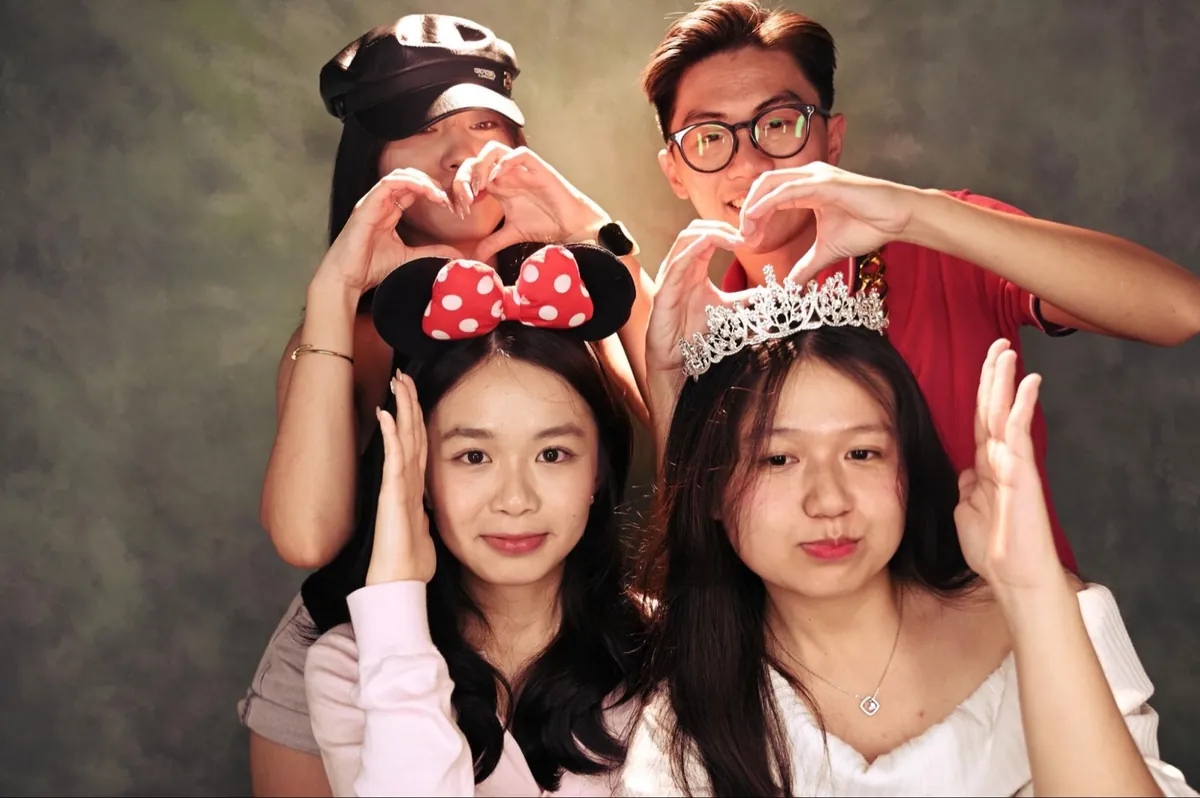
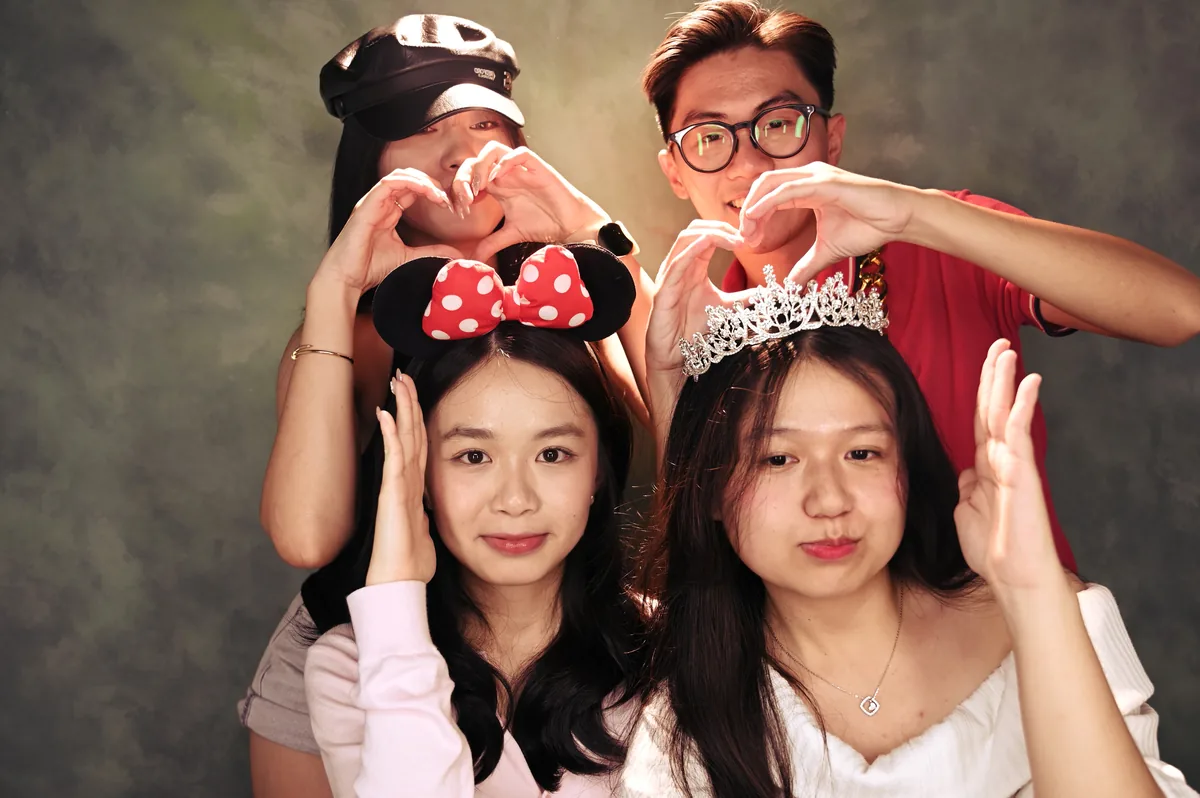
Add every friends' photo and self-portrait stickers from the Drive
The Drive's Self and Friends folders had more photos than the search API
listed. All friends' photos now hang on the clotheslines (crew and night
shots use the full-size originals). Self-portraits are cut out as die-cut
stickers in Cảm ơn, on the Nhớ lắm letter and on the guestbook wall; the
invite's Polaroid print is the studio portrait.

Changed region(s): [[0.0, 0.9925, 0.5858, 1.0], [0.6475, 0.9925, 1.0, 1.0], [0.555, 0.3609, 0.74, 0.4511]]

diff --git a/index.html b/index.html
@@ -75,24 +75,44 @@
         <img class="peg" src="img/peg-2.webp" alt="" width="135" height="300">
         <div class="swing"><figure class="polaroid"><img src="img/crew-minnie.webp" alt="Như í và bạn bè đeo bờm Minnie, vương miện, tạo dáng trái tim" width="1200" height="798" loading="lazy"></figure></div>
       </li>
+      <li class="hang hang--polaroid hang--tall">
+        <img class="peg" src="img/peg-2.webp" alt="" width="135" height="300">
+        <div class="swing"><figure class="polaroid"><img src="img/friends-tiara.webp" alt="Hai bạn ôm nhau trước phông hồng, một bạn đội vương miện" width="800" height="1200" loading="lazy"></figure></div>
+      </li>
       <li class="hang">
         <img class="peg" src="img/peg-2.webp" alt="" width="135" height="300">
         <div class="swing">
           <div class="booth">
-            <img src="img/booth-1.webp" alt="Ba bạn mặc áo cử nhân trước rèm đỏ" width="486" height="600">
-            <img src="img/booth-2.webp" alt="" width="486" height="600">
-            <img src="img/booth-3.webp" alt="" width="486" height="600">
-            <img src="img/booth-4.webp" alt="" width="486" height="600">
+            <img src="img/booth-1.webp" alt="Ba bạn mặc áo cử nhân trước rèm đỏ" width="486" height="600" loading="lazy">
+            <img src="img/booth-2.webp" alt="" width="486" height="600" loading="lazy">
+            <img src="img/booth-3.webp" alt="" width="486" height="600" loading="lazy">
+            <img src="img/booth-4.webp" alt="" width="486" height="600" loading="lazy">
           </div>
         </div>
       </li>
       <li class="hang hang--polaroid">
         <img class="peg" src="img/peg-2.webp" alt="" width="135" height="300">
-        <div class="swing"><figure class="polaroid"><img src="img/cafe-mirror.webp" alt="Cả nhóm chụp qua gương ở quán cà phê" width="1200" height="898" loading="lazy"></figure></div>
+        <div class="swing"><figure class="polaroid"><img src="img/friends-selfie.webp" alt="Ba bạn chụp selfie trong quán" width="1200" height="900" loading="lazy"></figure></div>
       </li>
       <li class="hang">
         <img class="peg" src="img/peg-1.webp" alt="" width="132" height="300">
         <div class="swing"><img class="strip" src="img/strip-phototime.webp" alt="Dải ảnh Photo Time ở 234 Phan Xích Long, 27.04.2025" width="378" height="1200" loading="lazy"></div>
+      </li>
+      <li class="hang hang--polaroid">
+        <img class="peg" src="img/peg-2.webp" alt="" width="135" height="300">
+        <div class="swing"><figure class="polaroid"><img src="img/friends-balcony.webp" alt="Hai bạn áo trắng chụp selfie ngoài ban công" width="1200" height="675" loading="lazy"></figure></div>
+      </li>
+      <li class="hang hang--polaroid">
+        <img class="peg" src="img/peg-2.webp" alt="" width="135" height="300">
+        <div class="swing"><figure class="polaroid"><img src="img/cafe-mirror.webp" alt="Cả nhóm chụp qua gương ở quán cà phê" width="1200" height="898" loading="lazy"></figure></div>
+      </li>
+      <li class="hang hang--polaroid">
+        <img class="peg" src="img/peg-2.webp" alt="" width="135" height="300">
+        <div class="swing"><figure class="polaroid"><img src="img/friends-hearts.webp" alt="Hai bạn chống cằm trước phông tim đỏ" width="1200" height="800" loading="lazy"></figure></div>
+      </li>
+      <li class="hang hang--polaroid">
+        <img class="peg" src="img/peg-2.webp" alt="" width="135" height="300">
+        <div class="swing"><figure class="polaroid"><img src="img/friends-xmas.webp" alt="Hai bạn đội mũ cây thông Noel trong photobooth" width="1074" height="764" loading="lazy"></figure></div>
       </li>
       <li class="hang hang--polaroid">
         <img class="peg" src="img/peg-2.webp" alt="" width="135" height="300">
@@ -102,6 +122,7 @@
     <div class="wrap">
       <div class="memories__letter" data-reveal>
         <div class="sheet" aria-hidden="true"><div class="sheet__paper paper-cream deckle"></div></div>
+        <img class="memories__sticker sticker" src="img/sticker-pout.webp" alt="Như í chu môi" width="826" height="1266" loading="lazy">
         <p class="memories__text"><span class="nl">Nhớ lắm</span> Ningcha, <span class="nl">nhớ lắm</span> mỗi lần cúp học đi làm (hoặc chơi), <span class="nl">nhớ lắm</span> miến trộn kiến trúc, <span class="nl">nhớ lắm</span> bánh mì cổng trường, <span class="nl">nhớ lắm</span> những lúc Q&amp;A mấy nhóm khác, <span class="nl">nhớ lắm</span> mấy lúc lên present, <span class="nl">nhớ lắm</span> những anh em đã điểm danh dùm bé, <span class="nl">nhớ lắm</span> những người đã đồng hành cùng em qua từng chapter trong hành trình này; <span class="memories__love"><span class="brush-long">em thật sự rất yêu mọi người,</span> <span class="brush-long">hihihaha</span></span> ngày không meta.</p>
       </div>
     </div>
@@ -124,7 +145,8 @@
           <img class="thanks__bow obj" src="img/bow-velvet-2.webp" alt="" width="295" height="380" loading="lazy">
         </div>
         <div class="thanks__keepsake" data-reveal>
-          <figure class="polaroid thanks__self"><img src="img/photo-portrait.webp" alt="Như í mặc áo cử nhân, chỉ tay lên" width="1017" height="1389" loading="lazy"></figure>
+          <img class="thanks__sticker thanks__sticker--a sticker" src="img/sticker-hearts.webp" alt="Như í chống má cười trước phông tim đỏ" width="826" height="946" loading="lazy">
+          <img class="thanks__sticker thanks__sticker--b sticker" src="img/sticker-pixie.webp" alt="Như í chỉ tay vào má ở Pixie" width="826" height="897" loading="lazy">
           <img class="thanks__cherries obj" src="img/cherries.webp" alt="" width="265" height="420" loading="lazy">
           <img class="thanks__konica obj" src="img/camera-konica.webp" alt="" width="385" height="520" loading="lazy">
         </div>
@@ -150,7 +172,7 @@
     <div class="wrap invite__grid">
       <div class="invite__camera" data-reveal>
         <img class="invite__lace" src="img/lace.webp" alt="" width="1000" height="946" loading="lazy">
-        <figure class="invite__print polaroid"><img src="img/photo-portrait.webp" alt="Ảnh Như í mặc áo cử nhân trước rèm đỏ" width="1017" height="1389" loading="lazy"></figure>
+        <figure class="invite__print polaroid"><img src="img/self-studio.webp" alt="Ảnh chân dung Như í" width="1017" height="1389" loading="lazy"></figure>
         <img class="invite__polaroid-cam" src="img/camera-polaroid.webp" alt="Máy ảnh Polaroid đời cũ" width="371" height="463" loading="lazy">
         <img class="invite__bow obj" src="img/bow-velvet.webp" alt="" width="291" height="380" loading="lazy">
       </div>
@@ -203,6 +225,7 @@
         <div class="wall" aria-label="Lưu bút của mọi người">
           <img class="wall__ace obj" src="img/card-ace.webp" alt="" width="321" height="500" loading="lazy">
           <img class="wall__rose obj" src="img/rose.webp" alt="" width="499" height="520" loading="lazy">
+          <img class="wall__sticker sticker" src="img/sticker-gown.webp" alt="Như í mặc áo cử nhân chụp selfie" width="826" height="841" loading="lazy">
           <ul class="wall__notes" id="gb-notes" aria-busy="false">
             <li class="wish wish--empty" id="gb-empty">
               <p>Chưa có lưu bút nào hết.</p>

diff --git a/css/styles.css b/css/styles.css
@@ -183,11 +183,13 @@ a { color: inherit; }
 .hang:nth-child(3n + 2) .swing { animation-duration: 5.5s; animation-delay: -4s; }
 @keyframes sway { from { rotate: -1.8deg; } to { rotate: 1.8deg; } }
 .strip { display: block; height: min(78vw, 420px); width: auto; box-shadow: 0 16px 24px var(--shade); }
-.booth { display: grid; grid-template-columns: repeat(2, minmax(0, 1fr)); gap: 6px; width: min(60vw, 320px); padding: 8px; background: #fbf8f2; box-shadow: 0 16px 24px var(--shade); }
+.booth { display: grid; grid-template-columns: repeat(2, minmax(0, 1fr)); gap: 6px; width: min(44vw, 320px); padding: 8px; background: #fbf8f2; box-shadow: 0 16px 24px var(--shade); }
 .booth img { display: block; width: 100%; height: auto; }
 .hang--polaroid .polaroid { width: min(58vw, 340px); }
+.hang--tall .polaroid { width: min(38vw, 240px); }
 
-.memories__letter { position: relative; max-width: 860px; margin: 56px auto 0; }
+.memories__letter { position: relative; max-width: 860px; margin: 150px auto 0; }
+.memories__sticker { position: absolute; z-index: 1; right: -6px; top: -150px; width: 110px; height: auto; rotate: 6deg; }
 .memories__text { position: relative; margin: 0; padding: 34px 24px 30px; color: var(--ink); font: 450 17px/1.9 var(--hand); }
 .nl { font-weight: 750; color: var(--maroon); }
 /* the closing words sit on two stacked brush strokes, each kept to one line */
@@ -202,9 +204,10 @@ a { color: inherit; }
 .thanks__copy p { margin: 0 0 14px; }
 .thanks__last { font-weight: 700; color: var(--maroon); margin-bottom: 0 !important; }
 .thanks__bow { right: -14px; top: -46px; width: 60px; rotate: 16deg; }
-.thanks__keepsake { position: relative; width: min(76%, 320px); margin: 12px auto 0; }
-.thanks__self { width: 100%; rotate: -3deg; }
-.thanks__self img { aspect-ratio: 4 / 5; object-fit: cover; object-position: 50% 88%; }
+.thanks__keepsake { position: relative; height: 400px; max-width: 420px; width: 100%; margin: 12px auto 0; }
+.thanks__sticker { position: absolute; height: auto; }
+.thanks__sticker--a { left: 0; top: 0; width: 60%; rotate: -5deg; }
+.thanks__sticker--b { right: 0; bottom: 0; width: 56%; rotate: 5deg; }
 .thanks__cherries { left: -8px; bottom: -26px; width: 66px; rotate: -12deg; z-index: 3; }
 .thanks__konica { right: -8px; top: -30px; width: 92px; rotate: 12deg; z-index: 3; }
 
@@ -283,7 +286,8 @@ a { color: inherit; }
 
 .wall { position: relative; }
 .wall__ace, .wall__rose { display: none; }
-.wall__notes { position: relative; margin: 0; padding: 0; list-style: none; columns: 2 220px; column-gap: 20px; }
+.wall__sticker { position: absolute; z-index: 1; right: -6px; top: -78px; width: 104px; height: auto; rotate: 7deg; }
+.wall__notes { position: relative; margin: 0; padding: 34px 0 0; list-style: none; columns: 2 220px; column-gap: 20px; }
 .wish--empty { column-span: all; max-width: 360px; }
 .wish { position: relative; break-inside: avoid; margin: 0 0 26px; padding: 28px 18px 18px; color: var(--ink); font: 500 17px/1.55 var(--hand); box-shadow: 0 12px 18px rgba(20, 0, 4, 0.42); background: #fdfcf8; }
 .wish:nth-child(3n + 1) { background-image: linear-gradient(rgba(255, 250, 240, 0.3), rgba(255, 250, 240, 0.3)), url(../img/paper-cream.webp); background-size: cover; }
@@ -376,9 +380,11 @@ a { color: inherit; }
   .line { --twine-top: 40px; gap: 80px clamp(40px, 4.5vw, 72px); margin-top: 48px; }
   .peg { width: 34px; top: calc(var(--twine-top) - 28px); }
   .strip { height: 520px; }
-  .booth { width: 380px; padding: 10px; gap: 8px; }
-  .hang--polaroid .polaroid { width: 420px; }
-  .memories__letter { margin-top: 96px; }
+  .booth { width: 340px; padding: 10px; gap: 8px; }
+  .hang--polaroid .polaroid { width: 360px; }
+  .hang--tall .polaroid { width: 280px; }
+  .memories__letter { margin-top: 250px; }
+  .memories__sticker { right: 40px; top: -270px; width: 200px; }
   .memories__text { padding: 60px 64px 56px; font-size: 22px; }
   .memories__love .brush-long { padding: 0.5em 2.2em 0.56em 0.8em; font-size: 24px; }
 
@@ -387,7 +393,7 @@ a { color: inherit; }
   .thanks__copy { padding: 58px 60px 52px; font-size: 20px; line-height: 1.75; }
   .thanks__copy p { margin-bottom: 18px; }
   .thanks__bow { width: 108px; right: -30px; top: -50px; }
-  .thanks__keepsake { width: min(100%, 400px); margin: 0 auto; }
+  .thanks__keepsake { height: 600px; max-width: none; margin: 0; }
   .thanks__cherries { width: 110px; left: -30px; bottom: -36px; }
   .thanks__konica { width: 150px; right: -40px; top: -60px; }
   .people { grid-template-columns: repeat(4, minmax(0, 1fr)); gap: 44px 36px; margin-top: 96px; }
@@ -420,10 +426,12 @@ a { color: inherit; }
   .guestbook__grid { grid-template-columns: 5fr 7fr; gap: 64px; align-items: start; }
   .lined { background-size: 782px auto; }
   .gb-form__body { padding: 52px 40px 40px 98px; }
-  .wall { min-height: 560px; }
-  .wall__notes { column-gap: 26px; padding-top: 12px; }
-  .wall__ace { display: block; right: 4%; top: 40px; width: 150px; rotate: 12deg; border-radius: 12px; }
-  .wall__rose { display: block; right: 20%; top: 300px; width: 190px; rotate: -16deg; }
+  /* notes keep to the left; the card, sticker and rose own a strip on the right */
+  .wall { min-height: 660px; }
+  .wall__notes { columns: 2 200px; column-gap: 26px; padding: 12px 250px 0 0; }
+  .wall__ace { display: block; right: 70px; top: 0; width: 140px; rotate: 12deg; border-radius: 12px; }
+  .wall__sticker { right: 0; top: 190px; width: 210px; }
+  .wall__rose { display: block; right: 50px; top: 440px; width: 170px; rotate: -16deg; }
   .wish--empty { margin-top: 20px; }
 
   .footer { padding: 48px 0 72px; }
